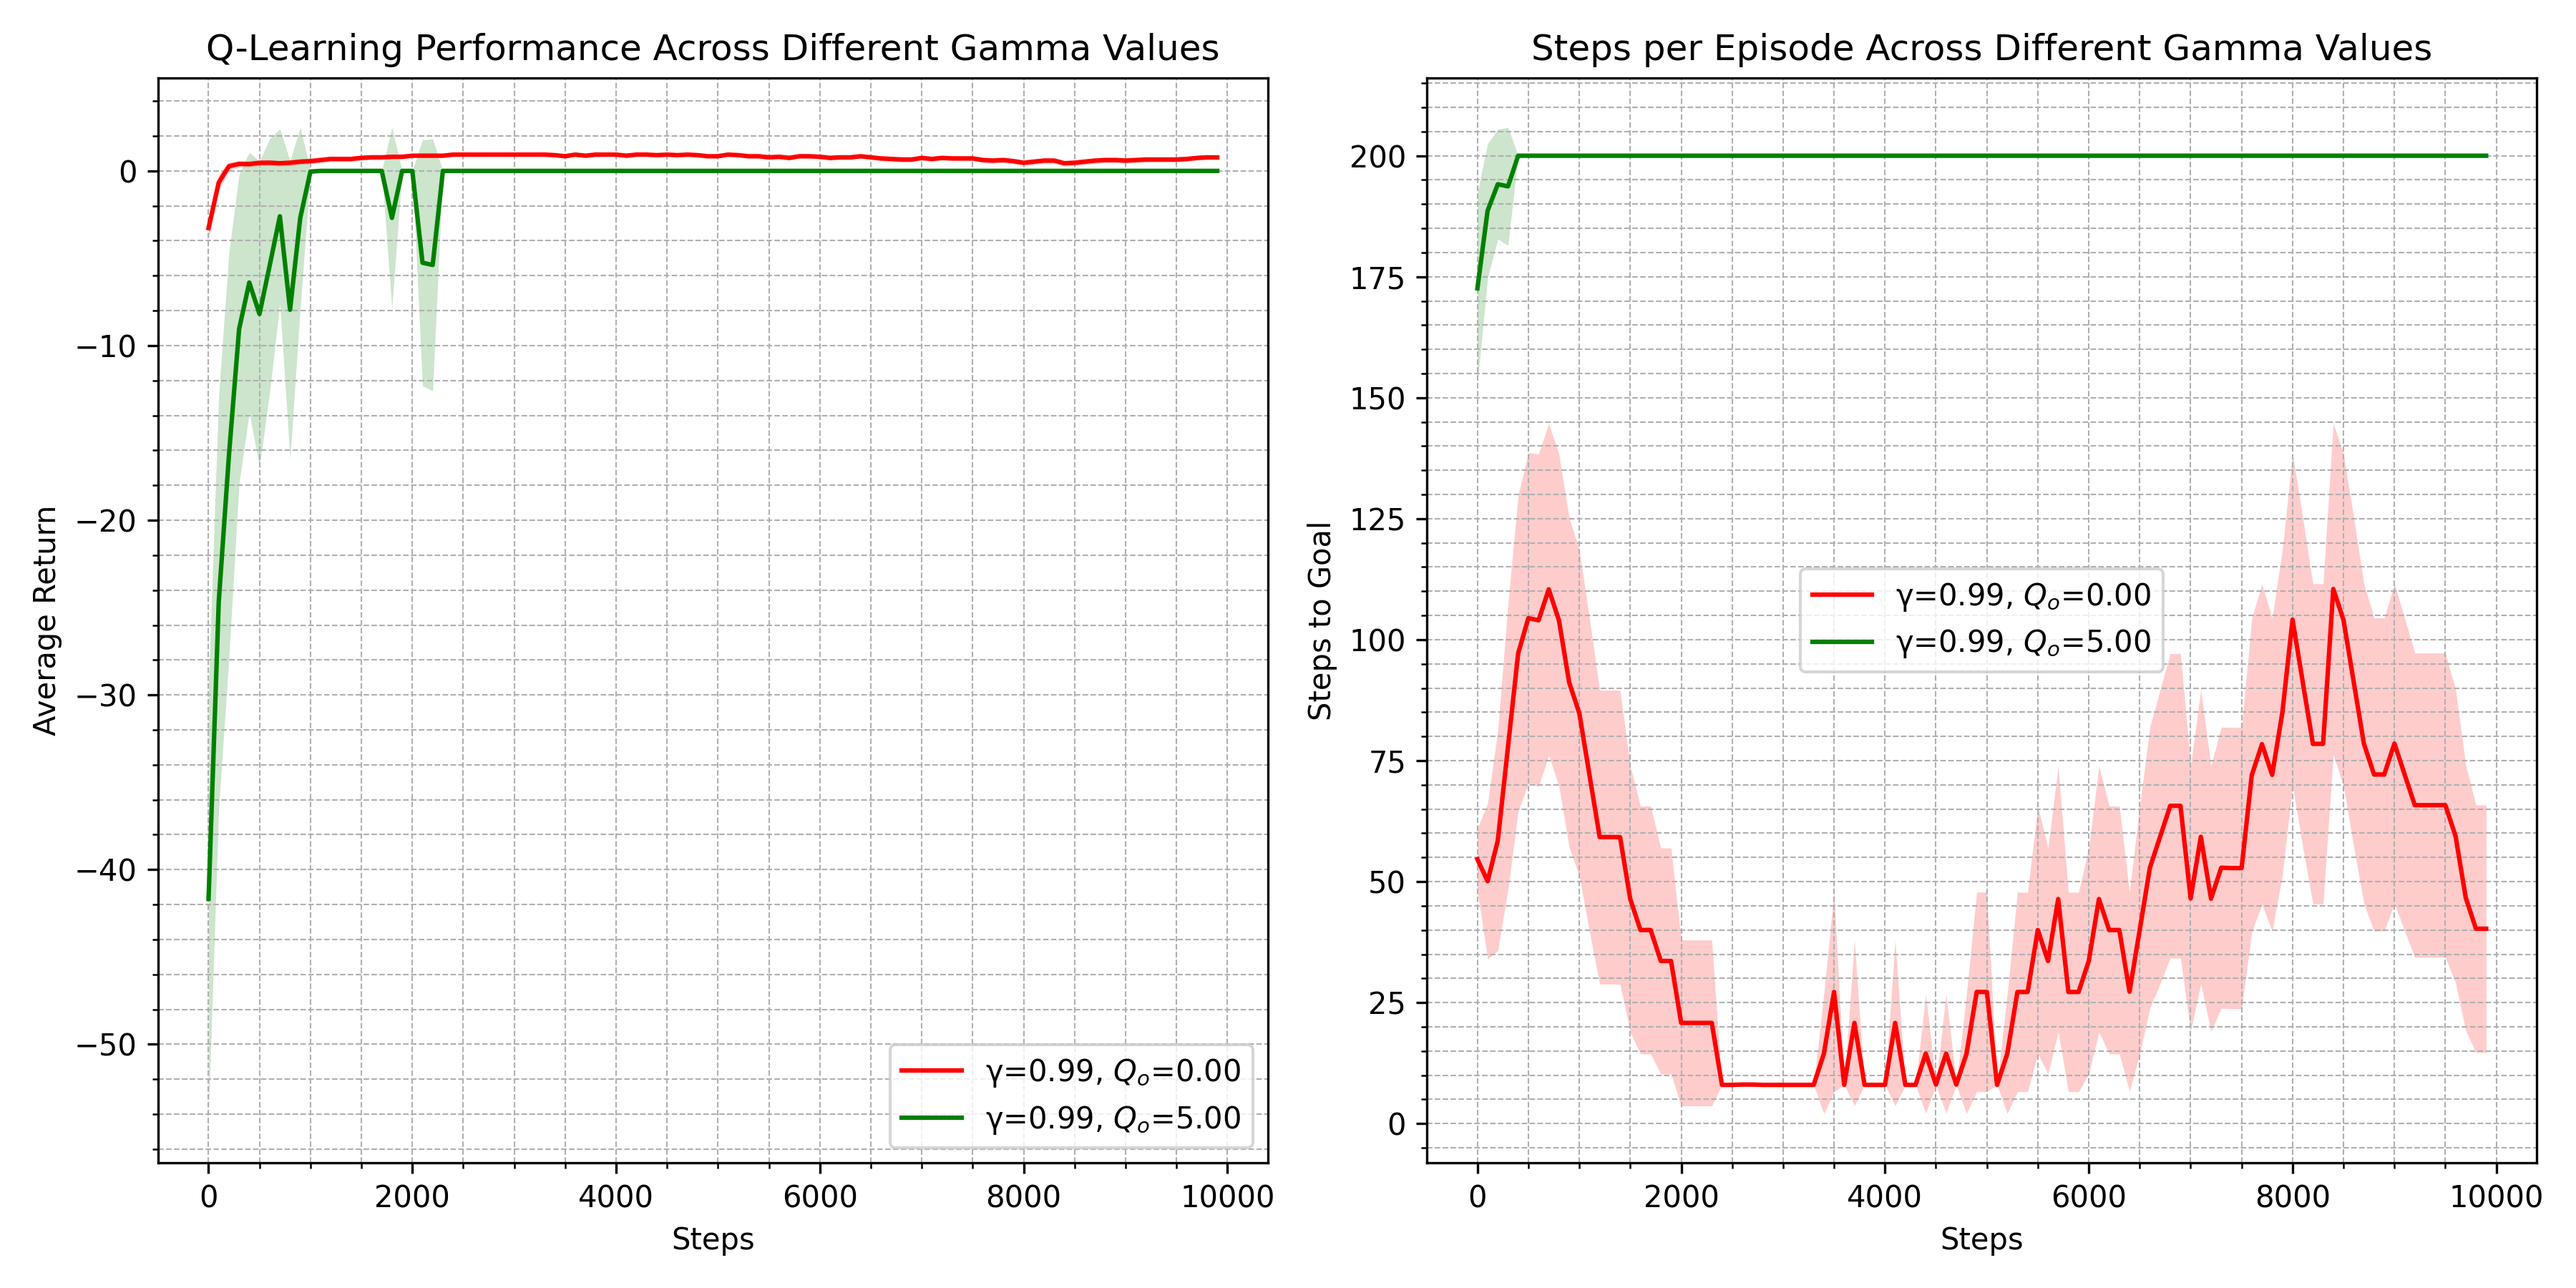
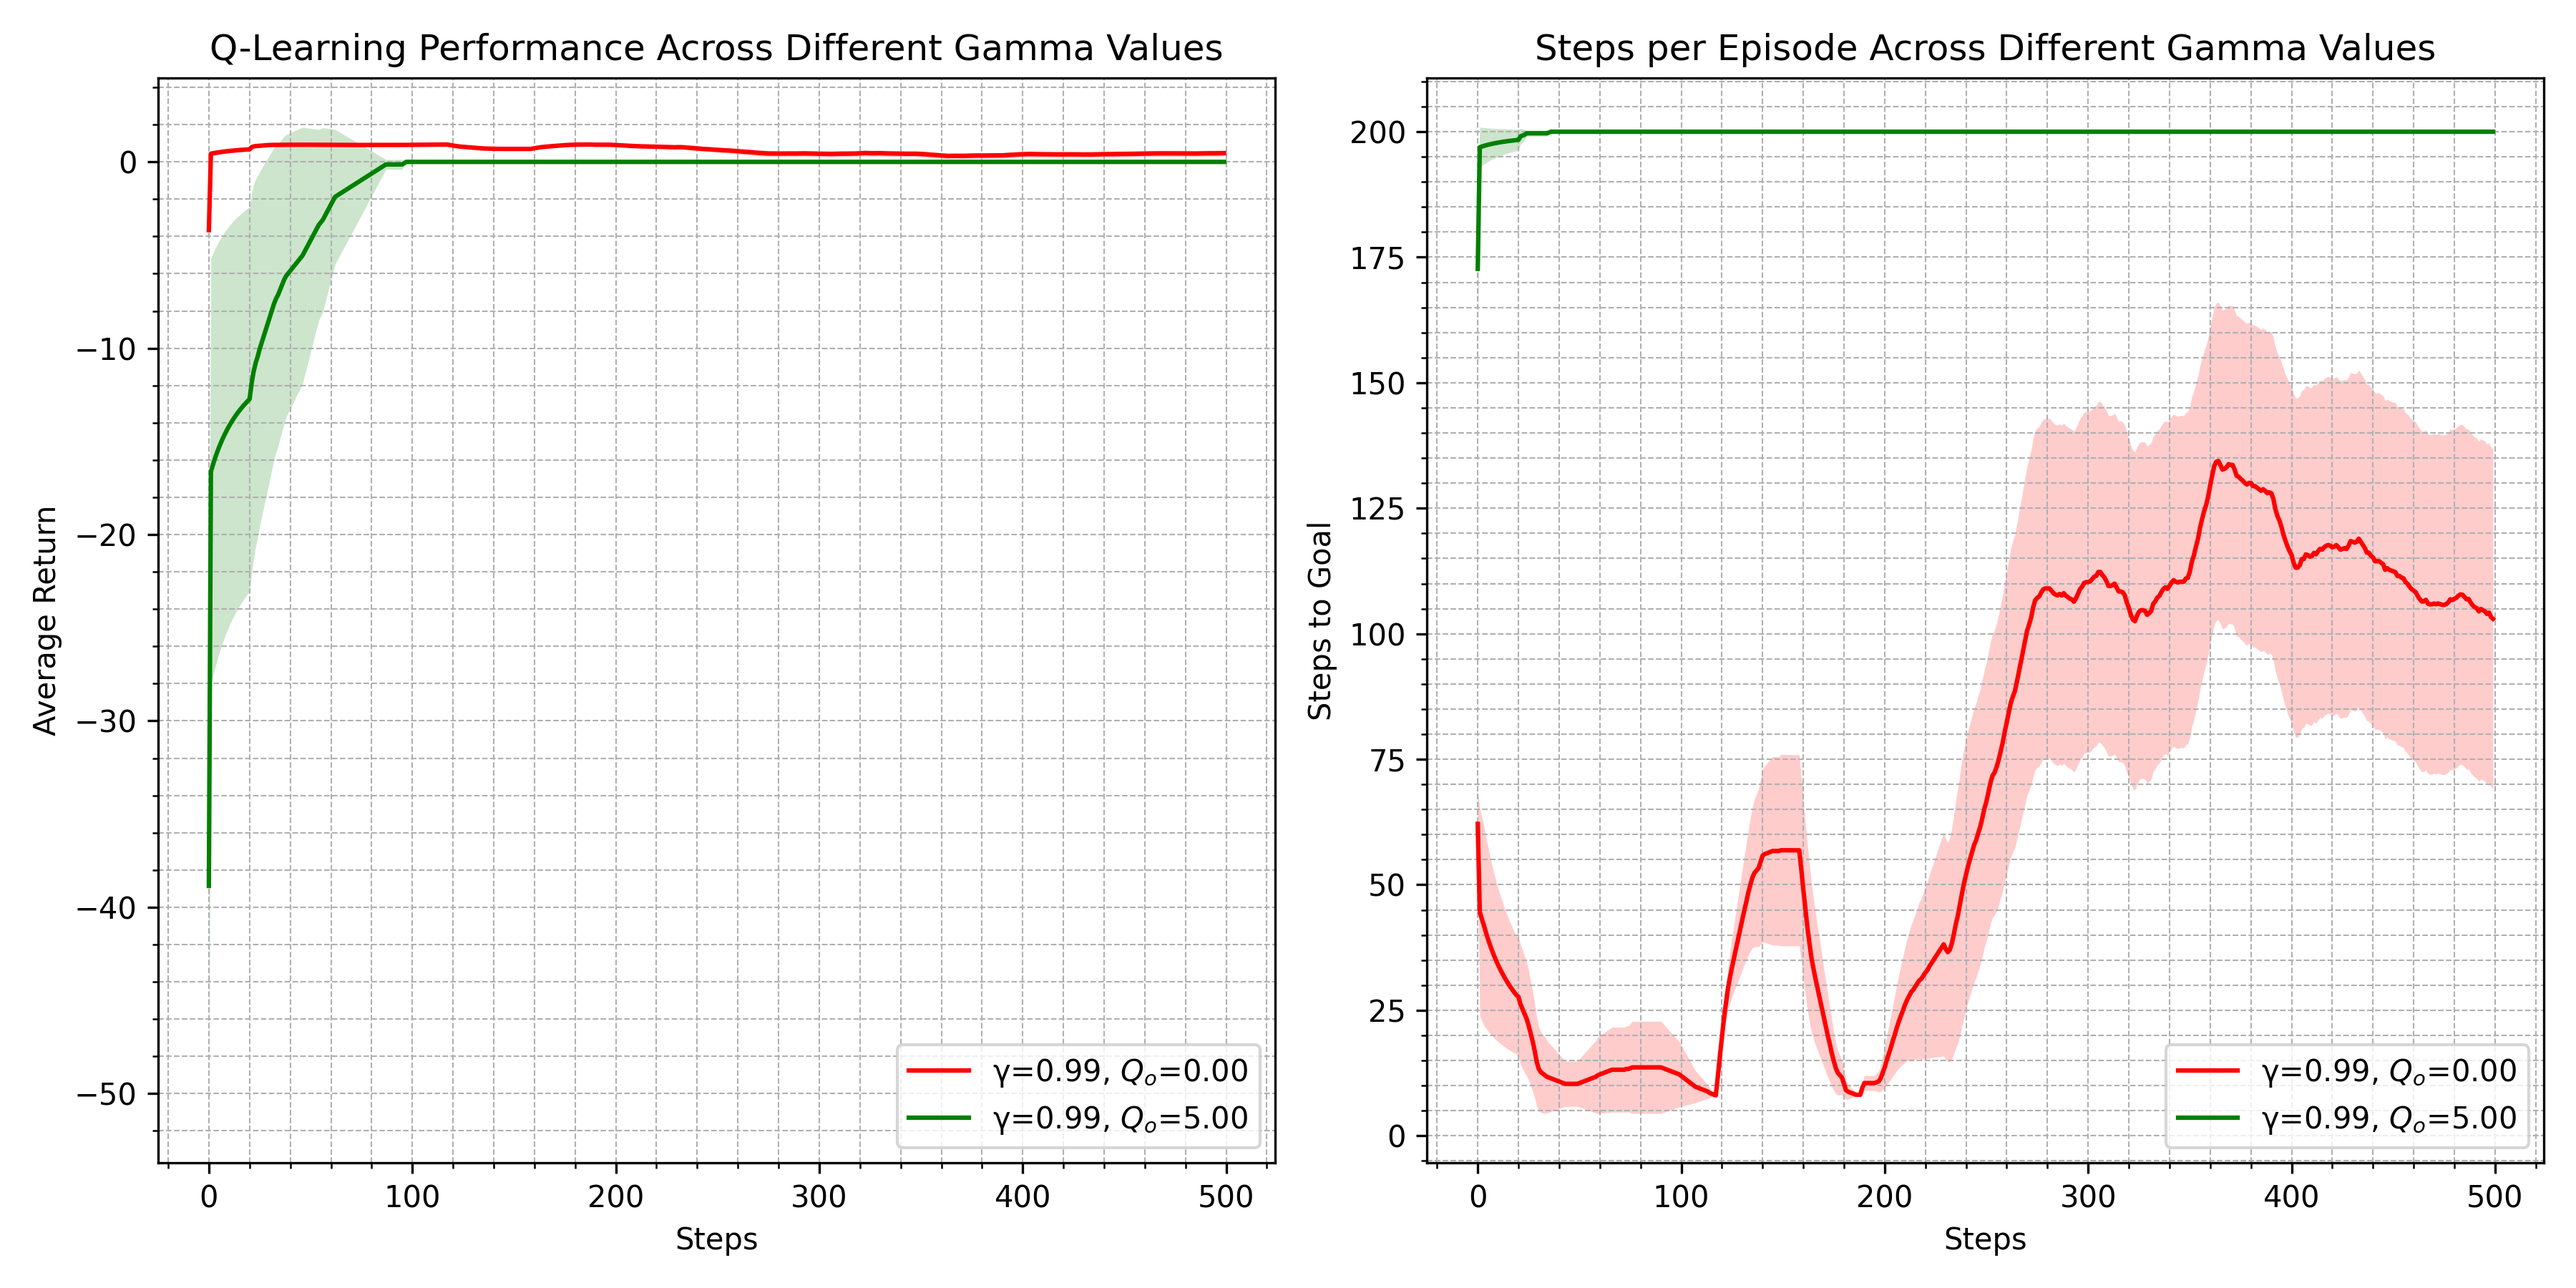
smooth

diff --git a/experiments/q_learning_steps.py b/experiments/q_learning_steps.py
@@ -125,13 +125,13 @@ def error_shade_plot(ax, data, stepsize, smoothing_window=1, **kwargs):
     y = np.nanmean(data, 0)
     x = np.arange(len(y))
     x = [stepsize * step for step in range(len(y))]
-    # if smoothing_window > 1:
-    #     y = smooth(y, smoothing_window)
+    if smoothing_window > 1:
+        y = smooth(y, smoothing_window)
 
     (line,) = ax.plot(x, y, **kwargs)
     error = np.nanstd(data, axis=0)
-    # if smoothing_window > 1:
-    #     error = smooth(error, smoothing_window)
+    if smoothing_window > 1:
+        error = smooth(error, smoothing_window)
     error = 1.96 * error / np.sqrt(data.shape[0])
     ax.fill_between(x, y - error, y + error, alpha=0.2, linewidth=0.0, color=line.get_color())
 
@@ -141,8 +141,8 @@ eps = 1.0
 max_steps = 50000
 
 init_values = [0.0, 5.0]#, 10.0]
-gamma_values = [0.99]#[0.1, 0.25, 0.5, 0.75, 0.8, 0.9, 0.99]
-seeds = np.arange(50)
+gamma_values = [0.1, 0.99]#0.25, 0.5, 0.75, 0.8, 0.9, 0.99]
+seeds = np.arange(30)
 
 results_exp_ret = np.zeros((
     len(gamma_values),
@@ -188,7 +188,7 @@ for i, gamma in enumerate(gamma_values):
         error_shade_plot(
             axs[0],
             results_exp_ret[i, j],
-            stepsize=100,
+            stepsize=1,
             smoothing_window=20,
             label=f'γ={gamma:.2f}, $Q_o$={init_value:.2f}'
         )
@@ -200,7 +200,7 @@ for i, gamma in enumerate(gamma_values):
         error_shade_plot(
             axs[1],
             results_steps[i, j],
-            stepsize=100,
+            stepsize=1,
             smoothing_window=20,
             label=f'γ={gamma:.2f}, $Q_o$={init_value:.2f}'
         )
